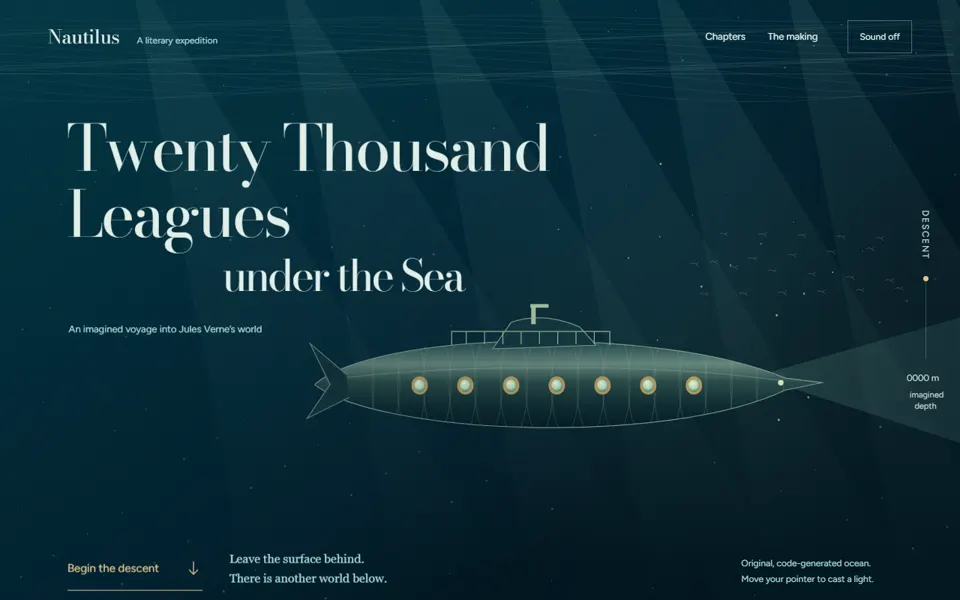
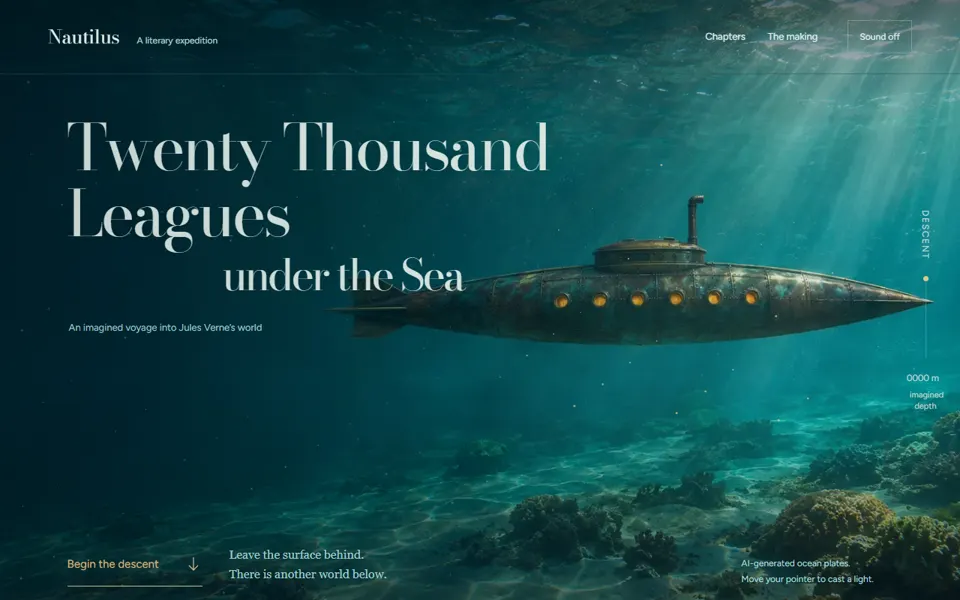
Refresh thumbnails and notes after photoreal pass

diff --git a/index.html b/index.html
@@ -96,18 +96,18 @@ footer{border-top:1px solid var(--line);padding:24px 0 48px;color:var(--muted);f
 
 <script>
 const P=[
- ['01','tide-almanac','Tide Almanac','An interactive North Sea tide clock, moon phases and the story of the 1953 flood.','The 5 Sites That Make AI-Built Websites Look Expensive','https://docs.google.com/document/d/1xJX5V0UXEMwu66qwL_fqStcUP1p40SHbK1NN3at2djc/edit','Manus (paid agent) skipped; built with the four free libraries'],
- ['02','night-bakery','Nachtbakkerij','A night bakery in a canal city, with an oven timeline and a Bread Club.','Build a $10K Website in Claude Code','https://noocap.notion.site/Build-a-10K-Website-in-Claude-Code-Free-Setup-Guide-356508e99dda816c9d15ea892d4139f9','Vite instead of Next.js; 21st.dev components taken from the author\u2019s public repo'],
+ ['01','tide-almanac','Tide Almanac','An interactive North Sea tide clock, moon phases and the story of the 1953 flood.','The 5 Sites That Make AI-Built Websites Look Expensive','https://docs.google.com/document/d/1xJX5V0UXEMwu66qwL_fqStcUP1p40SHbK1NN3at2djc/edit','Manus skipped; ChatGPT coast photos, sea loop made in code'],
+ ['02','night-bakery','Nachtbakkerij','A night bakery in a canal city, with an oven timeline and a Bread Club.','Build a $10K Website in Claude Code','https://noocap.notion.site/Build-a-10K-Website-in-Claude-Code-Free-Setup-Guide-356508e99dda816c9d15ea892d4139f9','Vite not Next.js; ChatGPT food photos; 21st.dev components from the author\u2019s repo'],
  ['03','toolshed','The Toolshed','The 15 free Google AI tools on a pegboard. Describe a job and the right tools swing forward.','15 Free Google AI Tools','https://forested-beet-e72.notion.site/List-of-Free-Google-AI-Tools-3a8a26434b34802e9ea6c4a2c714ef71','Nothing to swap; tool status rechecked against official pages'],
  ['04','sketchbook-nl','A Sketchbook of the Netherlands','Eight Dutch places, each a taped-in photo opposite a hand-drawn SVG.','Turn Trip Photos Into a Digital Sketchbook','https://nelsonxlee.substack.com/p/turn-your-trip-photos-into-a-digital','Openly licensed Wikimedia photos instead of a personal camera roll'],
- ['05','orbit-atlas','Orbit Atlas','The eight planets as moving posters, built on HyperFrames with NASA facts.','Claude Design + HyperFrames Pipeline','https://hyperframes.heygen.com/introduction','Hand-made SVG compositions instead of Claude Design (sign-in)'],
- ['06','lantern-film','Lantern','A 30-second launch film for a fictional family AI, with its score and making-of.','Making the dots Film with Opus 5.5','https://achieved-cloak-445.notion.site/Making-the-dots-film-with-Opus-5-5-3f0e13e8b390813f9ac7ce05c2ec7df1','Code-drawn characters and captions instead of Higgsfield footage and ElevenLabs voice'],
+ ['05','orbit-atlas','Orbit Atlas','The eight planets as moving posters, built on HyperFrames with NASA facts.','Claude Design + HyperFrames Pipeline','https://hyperframes.heygen.com/introduction','SVG compositions instead of Claude Design; real NASA mission photos'],
+ ['06','lantern-film','Lantern','A 30-second launch film for a fictional family AI, with its score and making-of.','Making the dots Film with Opus 5.5','https://achieved-cloak-445.notion.site/Making-the-dots-film-with-Opus-5-5-3f0e13e8b390813f9ac7ce05c2ec7df1','Coded characters plus ChatGPT photoreal footage stills; captions instead of a voice'],
  ['07','exploded-chronograph','Meridian Noir','A chronograph that comes apart into its parts as you scroll, then reassembles.','AI Chip Scroll-Animation Landing Page','https://noocap.notion.site/Complete-Workflow-AI-Chip-Scroll-Animation-Landing-Page-341508e99dda80618d88e989402ac749','ChatGPT images and Gemini Veo motion instead of Google Whisk and Flow'],
  ['08','bloom-scroll','Bloom','A tulip bulb grows into full flower as you scroll.','Codex + Kling = $15K Animated Website','https://youtu.be/eUkCSssoYHw','ChatGPT images and Gemini Veo motion instead of Kling (paid API)'],
  ['09','seven-motions','Seven Motions','One seed\u2019s journey told in seven animation styles, each with its own film and score.','Claude Opus 5.5 Motion Videos Tutorial \u00b7 Janus Tiu','https://dm.stan.store/iAqWZI','Coded in-house instead of with Claude Code'],
- ['11','obsidian-templates','OBSIDIAN/LIME','A dark templates studio built from the full 13-section prompt.','The Complete AI Website Prompt \u00b7 Hyliox','https://hyliox.io/prompt','Generated canvas background instead of an HLS video'],
- ['15','prompt-to-page','Soft Orchard','Glossy 3D jelly fruit you can pull, recolour, slice and skewer.','Budarina Curated Prompt Collection \u00b7 \u201cJelly Study\u201d','https://budarina.design/prompts','CPU spring physics instead of a GPU volumetric solver'],
- ['16','twenty-thousand-leagues','Twenty Thousand Leagues','A descent with the Nautilus through four chapters of Jules Verne\u2019s novel.','Divya\u2019s Themed AI Website Repos','https://github.com/divyashrma18?tab=repositories','Techniques studied and rebuilt; no code or franchise imagery copied']
+ ['11','obsidian-templates','OBSIDIAN/LIME','A dark templates studio built from the full 13-section prompt.','The Complete AI Website Prompt \u00b7 Hyliox','https://hyliox.io/prompt','ChatGPT photography; coded light loop instead of an HLS video'],
+ ['15','prompt-to-page','Soft Orchard','Glossy 3D jelly fruit you can pull, recolour, slice and skewer.','Budarina Curated Prompt Collection \u00b7 \u201cJelly Study\u201d','https://budarina.design/prompts','Physical jelly materials lit from a ChatGPT studio; CPU springs'],
+ ['16','twenty-thousand-leagues','Twenty Thousand Leagues','A descent with the Nautilus through four chapters of Jules Verne\u2019s novel.','Divya\u2019s Themed AI Website Repos','https://github.com/divyashrma18?tab=repositories','Techniques studied, not copied; ChatGPT underwater plates']
 ];
 const esc=s=>s.replace(/&/g,'&amp;').replace(/</g,'&lt;');
 document.getElementById('sheet').innerHTML=P.map(([n,slug,name,line,guide,src,swap])=>`
